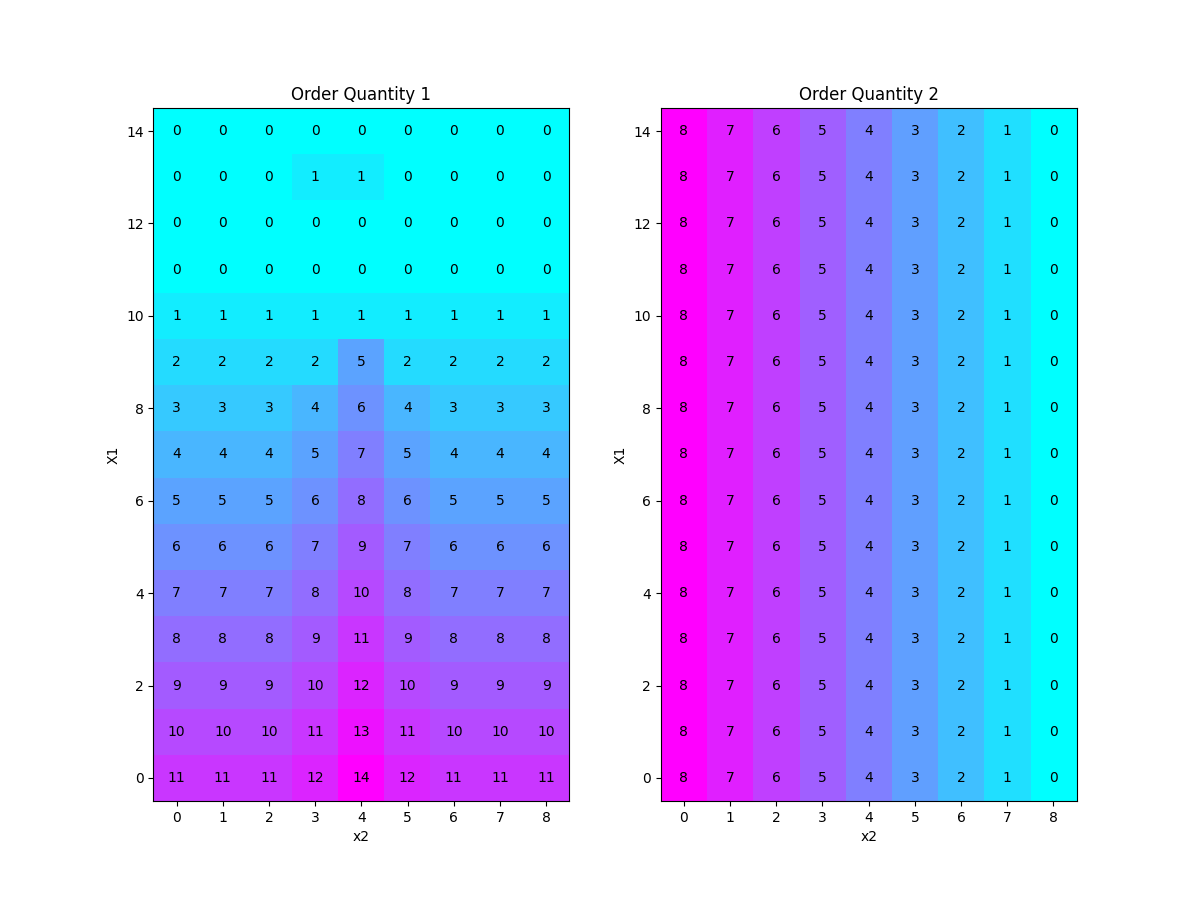
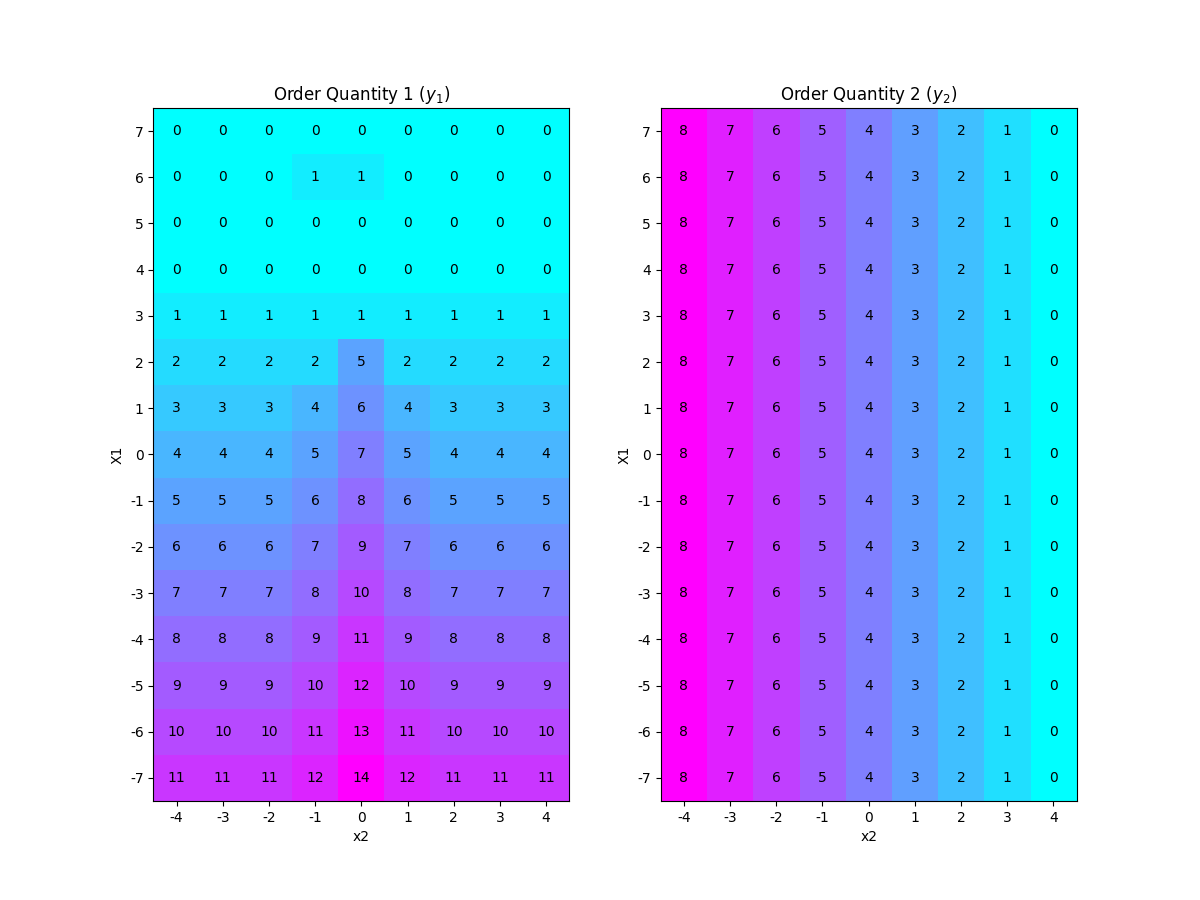
Final commit

diff --git a/calculations.py b/calculations.py
@@ -1,0 +1,53 @@
+import numpy as np
+import matplotlib.pyplot as plt
+import os
+files = ['poisson_q_learning_values.npy',
+        'poisson_q_learning_reaction_values.npy'
+       ]
+plot_titles = ['Q-Learning','Q-Learning $w_2=9$']
+output_files =['exp2_decision.png']
+Values = []
+dest = '/Users/paul/Documents/789_Project/ise_789_project/output_files/values/'
+for file in files:
+    path_name = dest+file
+    path = os.path.abspath(path_name)
+    tmp = np.load(path)
+    Values.append(tmp)
+print(Values)
+x1_range = Values[0][1:,0]
+x2_range = Values[0][0,1:]
+for i in range(1):
+    fig, axs = plt.subplots(nrows=len(x2_range)//2+1, ncols=2, figsize =(14,10))
+    for x2 in range(len(x2_range)):
+        index = x2 % (len(x2_range)//2+1)
+        if x2 <= len(x2_range)//2:
+            title = f'$x_2={x2-x2_range[-1]}$'
+            axs[index, 0].plot(x1_range,Values[2*i][1:,x2], label=plot_titles[2*i])
+            axs[index, 0].plot(x1_range, Values[2*i+1][1:, x2], label=plot_titles[2*i+1])
+            #axs[index, 0].plot(x1_range, Values[2 * i + 2][1:, x2], label=plot_titles[2 * i + 2])
+            axs[index, 0].annotate(title, xy=(0,0.5),xytext=(-axs[index,0].yaxis.labelpad - 5, 0),
+                    xycoords=axs[index,0].yaxis.label, textcoords='offset points',
+                    size='large', ha='right', va='center')
+            #axs[index, 0].set_ylim(0,85)
+        else:
+            title = f'$x_2={x2-x2_range[-1]}$'
+            axs[index,1].plot(x1_range,Values[2*i][1:,x2],label=plot_titles[2*i])
+            axs[index, 1].plot(x1_range, Values[2*i+1][1:, x2],label=plot_titles[2*i+1])
+            #axs[index, 1].plot(x1_range, Values[2 * i + 2][1:, x2], label=plot_titles[2 * i + 2])
+            axs[index,1].annotate(title, xy=(1,0.5),xytext=(-axs[index,1].yaxis.labelpad - 5, 0),
+                    xycoords=axs[index,1].yaxis.label, textcoords='offset points',
+                    size='large', ha='right', va='center')
+            #axs[index, 1].set_ylim(0,85)
+    axs[-1, 0].set_xlabel('$x_1$')
+    axs[-1, 1].set_xlabel('$x_1$')
+    axs[-1, 0].set_xticks(x1_range)
+    axs[-1, 1].set_xticks(x1_range)
+    axs[0,0].set_ylim(-10, 10)
+    axs[-2,1].legend()
+    fig.tight_layout(pad=3.0)
+    path = '/Users/paul/Documents/789_Project/ise_789_project/output_files/plots_images/finite_value_plots/'+output_files[i]
+    fig.savefig(os.path.abspath(path), dpi=100)
+
+print(np.nanmean(np.subtract(Values[1],Values[0])))
+print(np.nanmean(np.subtract(Values[1],Values[0])))
+plt.show()

diff --git a/poisson_demand_experiment.py b/poisson_demand_experiment.py
@@ -18,21 +18,21 @@ w_2= 9
 two_product = two_item_poisson.TwoItem(demand_rates=demand_rate,max_demand=max_demand,
                                       h=h,b=b,p=p,c=c,theta=theta,substitution_rates=gammas)
 
-get_two = single_poisson.SingleItem(demand_rate=demand_rate[1],max_demand=max_demand,h=h[1],
-                                    b=b[1],p=p[1],c=c[1],theta=theta[1])
-inst = PolicyIteration(get_two,0.01,0.8, 'poisson_w2_run')
-test = inst.policy_optimization()
+#get_two = single_poisson.SingleItem(demand_rate=demand_rate[1],max_demand=max_demand,h=h[1],
+                                   # b=b[1],p=p[1],c=c[1],theta=theta[1])
+#inst = PolicyIteration(get_two,0.01,0.8, 'poisson_w2_run')
+#test = inst.policy_optimization()
 
 # Two product Q Learning w2 #
-td = TemporalDifference(two_product, 0.01, 0.8, 0.9999,10000000, 'poisson_q_learning_reaction', w2=9)
+td = TemporalDifference(two_product, 0.0001, 0.8, 0.9999,10000000, 'poisson_q_learning_reaction', w2=9)
 td.q_learning()
 # Two Product Regular #
-td = TemporalDifference(two_product, 0.01, 0.8, 0.9999,10000000, 'poisson_q_learning')
+td = TemporalDifference(two_product, 0.0001, 0.8, 0.9999,10000000, 'poisson_q_learning')
 td.q_learning()
 
 # Two product MC w2 #
-mc = McPolicyIteration(two_product,100000,100,0.999,0.8,name='poisson_mc_pi_reaction',w2=4)
-mc.policy_iteration()
+#mc = McPolicyIteration(two_product,100000,100,0.999,0.8,name='poisson_mc_pi_reaction',w2=4)
+#mc.policy_iteration()
 # Two Product MC #
-mc = McPolicyIteration(two_product,100000,100,0.999,0.8,name='poisson_mc_pi')
-mc.policy_iteration()
+#mc = McPolicyIteration(two_product,100000,100,0.999,0.8,name='poisson_mc_pi')
+#mc.policy_iteration()

diff --git a/plots/action_plots.py b/plots/action_plots.py
@@ -7,17 +7,27 @@ class TwoProduct():
         self.actions = save_outputs.open_actions(file_name)
         self.x1_range = len(self.actions[0,:,0])
         self.x2_range = len(self.actions[0, 0, :])
+        self.x1_ticks = np.arange(-self.x1_range//2+1, self.x1_range//2 + 1)
+        self.x2_ticks = np.arange(-self.x2_range//2+1, self.x2_range//2 + 1)
+        print(self.x1_ticks)
     def create_plot(self):
         fig,ax = plt.subplots(nrows=1,ncols=2, figsize=(12, 9))
         ax[0].imshow(self.actions[0], cmap='cool', origin='lower')
         ax[0].set_xlabel('x2')
         ax[0].set_ylabel('X1')
-        ax[0].set_title('Order Quantity 1')
-
+        ax[0].set_title('Order Quantity 1 ($y_1$)')
+        ax[0].set_xticks(np.arange(self.x2_range))
+        ax[0].set_yticks(np.arange(self.x1_range))
+        ax[0].set_xticklabels(self.x2_ticks)
+        ax[0].set_yticklabels(self.x1_ticks)
         ax[1].imshow(self.actions[1], cmap='cool', origin='lower')
         ax[1].set_xlabel('x2')
         ax[1].set_ylabel('X1')
-        ax[1].set_title('Order Quantity 2')
+        ax[1].set_title('Order Quantity 2 ($y_2$)')
+        ax[1].set_xticks(np.arange(self.x2_range))
+        ax[1].set_yticks(np.arange(self.x1_range))
+        ax[1].set_xticklabels(self.x2_ticks)
+        ax[1].set_yticklabels(self.x1_ticks)
         for i in range(0, self.x1_range):
             for j in range(0, self.x2_range):
                 text = ax[0].text(j, i, int(self.actions[0,i, j]),

diff --git a/test.py b/test.py
@@ -1,0 +1,8 @@
+from output_files.save_outputs import open_actions
+from plots.action_plots import TwoProduct
+import matplotlib.pyplot as plt
+a = open_actions('poisson_q_learning_actions.npy')
+
+fig = TwoProduct('poisson_q_learning_actions.npy')
+fig.create_plot()
+plt.show()
